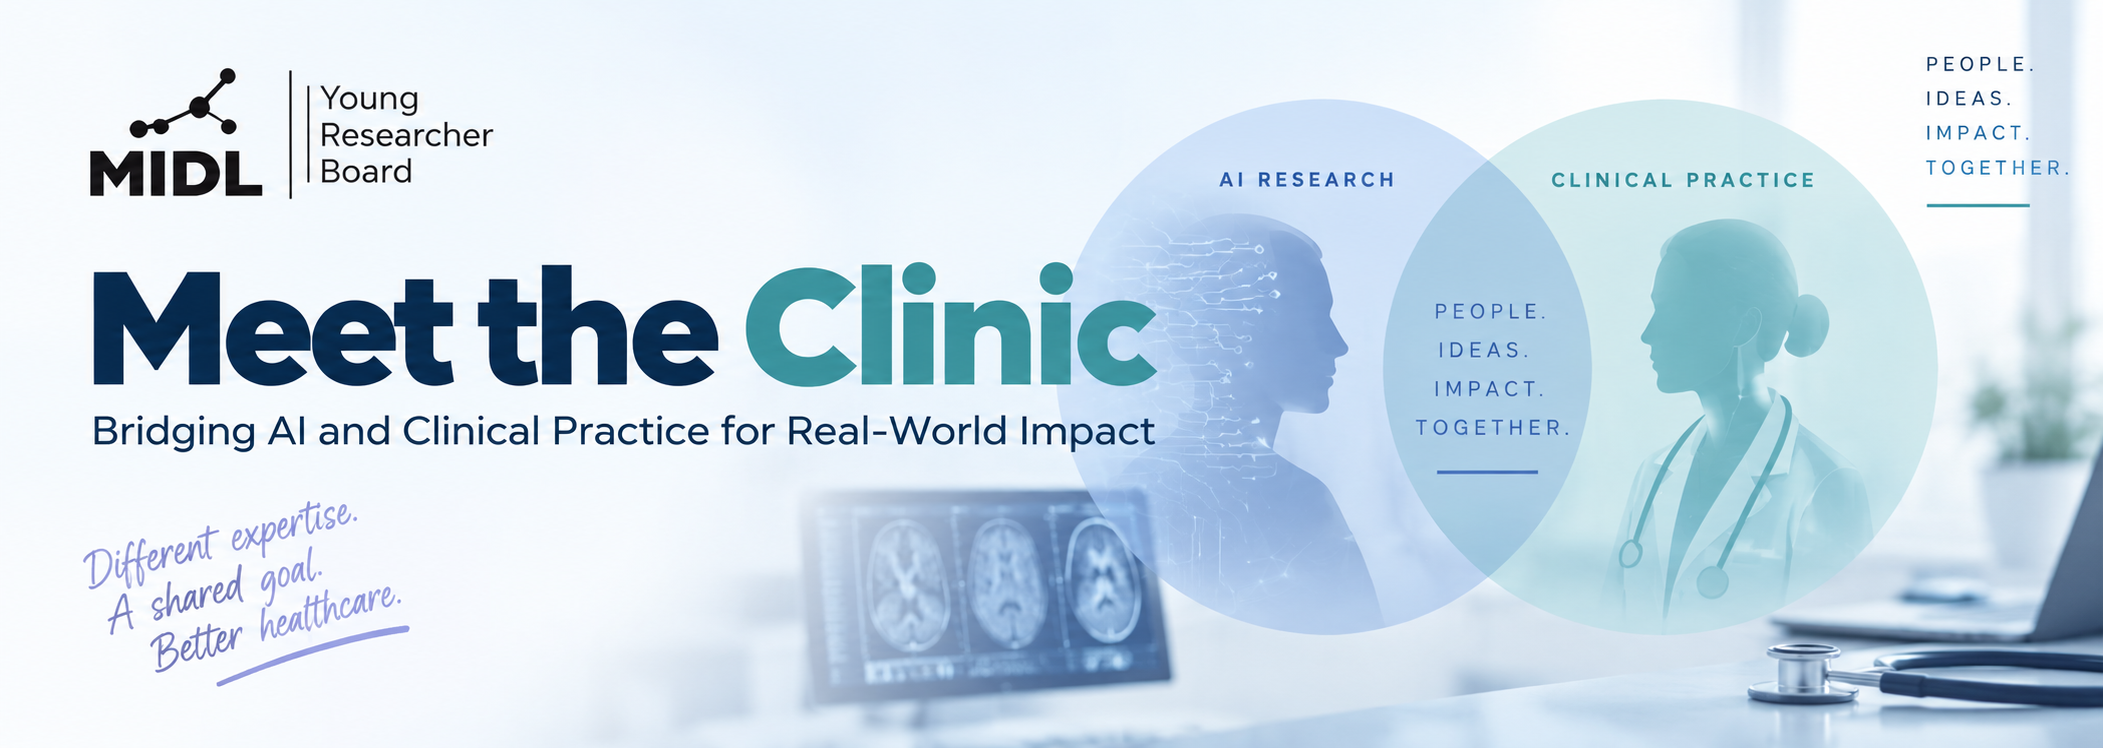
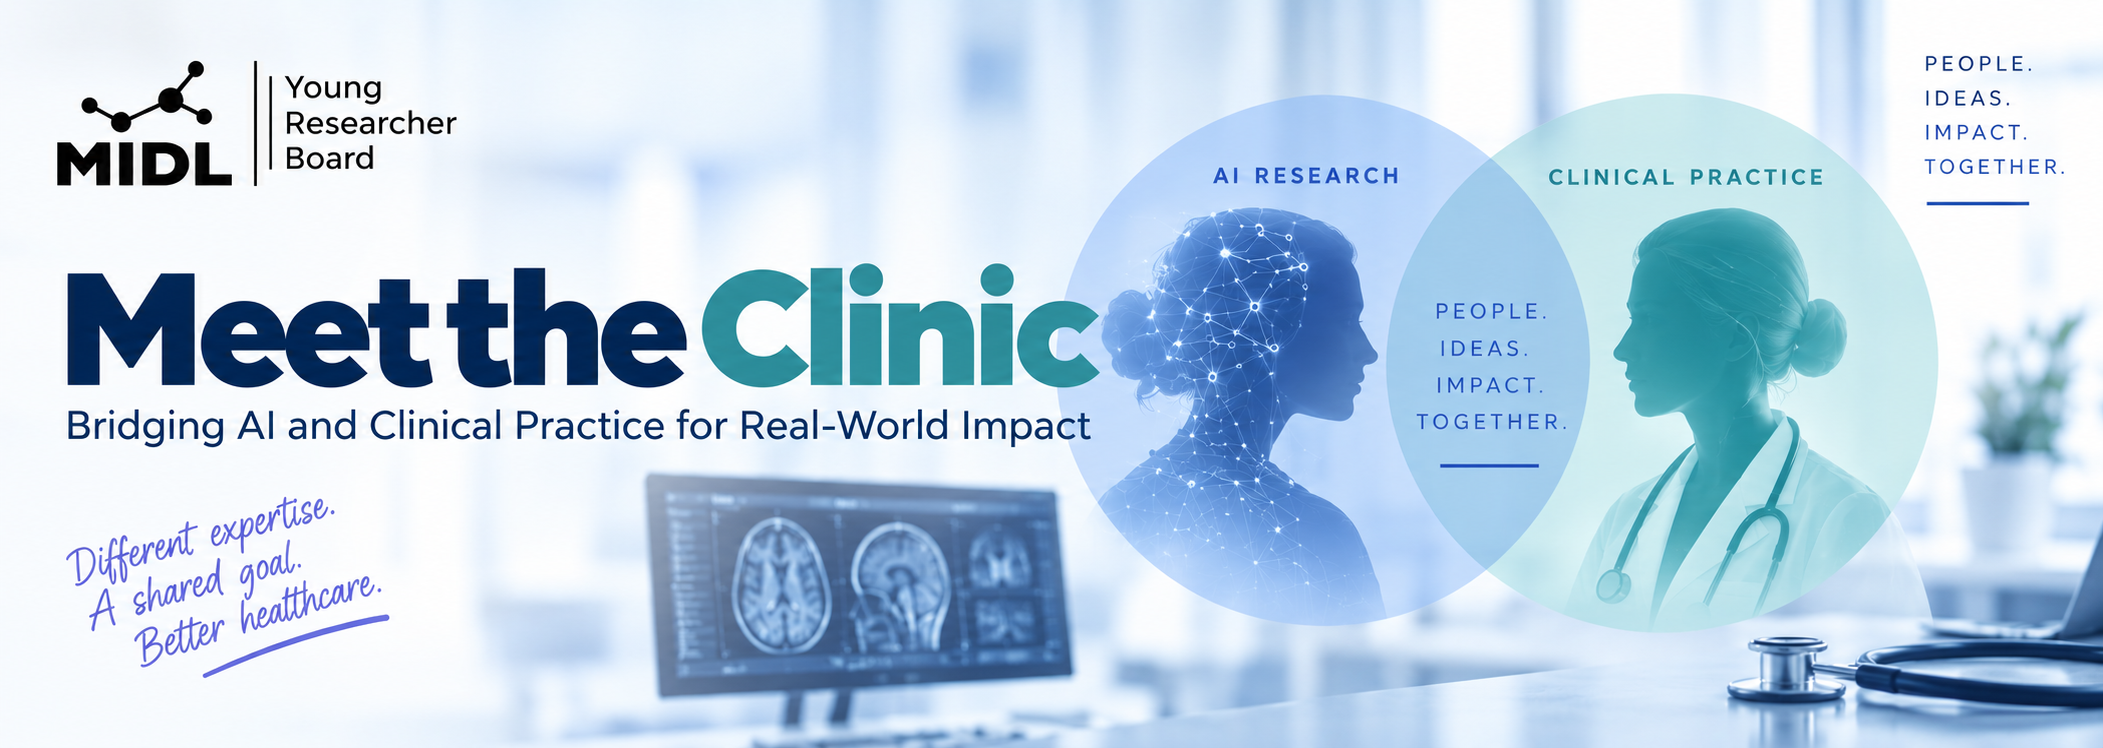
Update meet the clinic event schedule (#54)
* Update Meet the Clinic banner

* Update Meet the Clinic timetable

* Update organization team

diff --git a/pages/meet-the-clinic.md b/pages/meet-the-clinic.md
@@ -18,7 +18,7 @@ We're also excited to welcome two clinicians to the conversation: PD Dr. Franz W
 
 Whether you're just starting to explore clinical collaborations or looking to deepen existing ones, this event offers a chance to learn directly from people on both sides of the table.
 
-The event will take place on **November 19th, 14:00-15:30 UTC+0** as a virtual Zoom event. Please register using the link below to receive Zoom links for the event. The event will be free of charge.
+The event will take place on **November 19th, 14:00-16:00 UTC+0** as a virtual Zoom event. Please register using the link below to receive Zoom links for the event. The event will be free of charge.
 
 {{ button("Registration Link", "https://forms.gle/eSSH52hhB6RZHRpP8") }}
 
@@ -26,12 +26,28 @@ Join us to learn how to turn cross-disciplinary connections into lasting, impact
 
 ## Timetable
 
-Programme TBD
+Note that the schedule is tentative and might evolve.
+
+(all times in UTC+0)
+
+[% .invisible-table %]
+
+| Program                                               | Time Slot     |
+| --------                                              | ---------     |
+| Welcome in Zoom                                       | 14:00 - 14:10 |
+| Talk by Assistant Professor Alessa Hering             | 14:10 - 14:30 |
+| Talk by MD PhD Ewoud Smit                             | 14:30 - 14:50 |
+| Talk by Associate Professor Jannis Hagenah            | 14:50 - 15:10 |
+| Talk by PD Dr. Franz Wegner                           | 15:10 - 15:30 |
+| Panel Discussion: "Ask the Experts" with all speakers | 15:30 - 16:00 |
+
+[% / %]
 
 ## Organization
 
 * Anna Wundram, <anna.wundram@unilu.ch>
 * Anwai Archit, <anwai.archit@uni-goettingen.de>
+* Kerol Djoumessi, <kerol@aims.ac.za>
 * Savannah Hays, <shays6@jhu.edu>
 
 ## References
